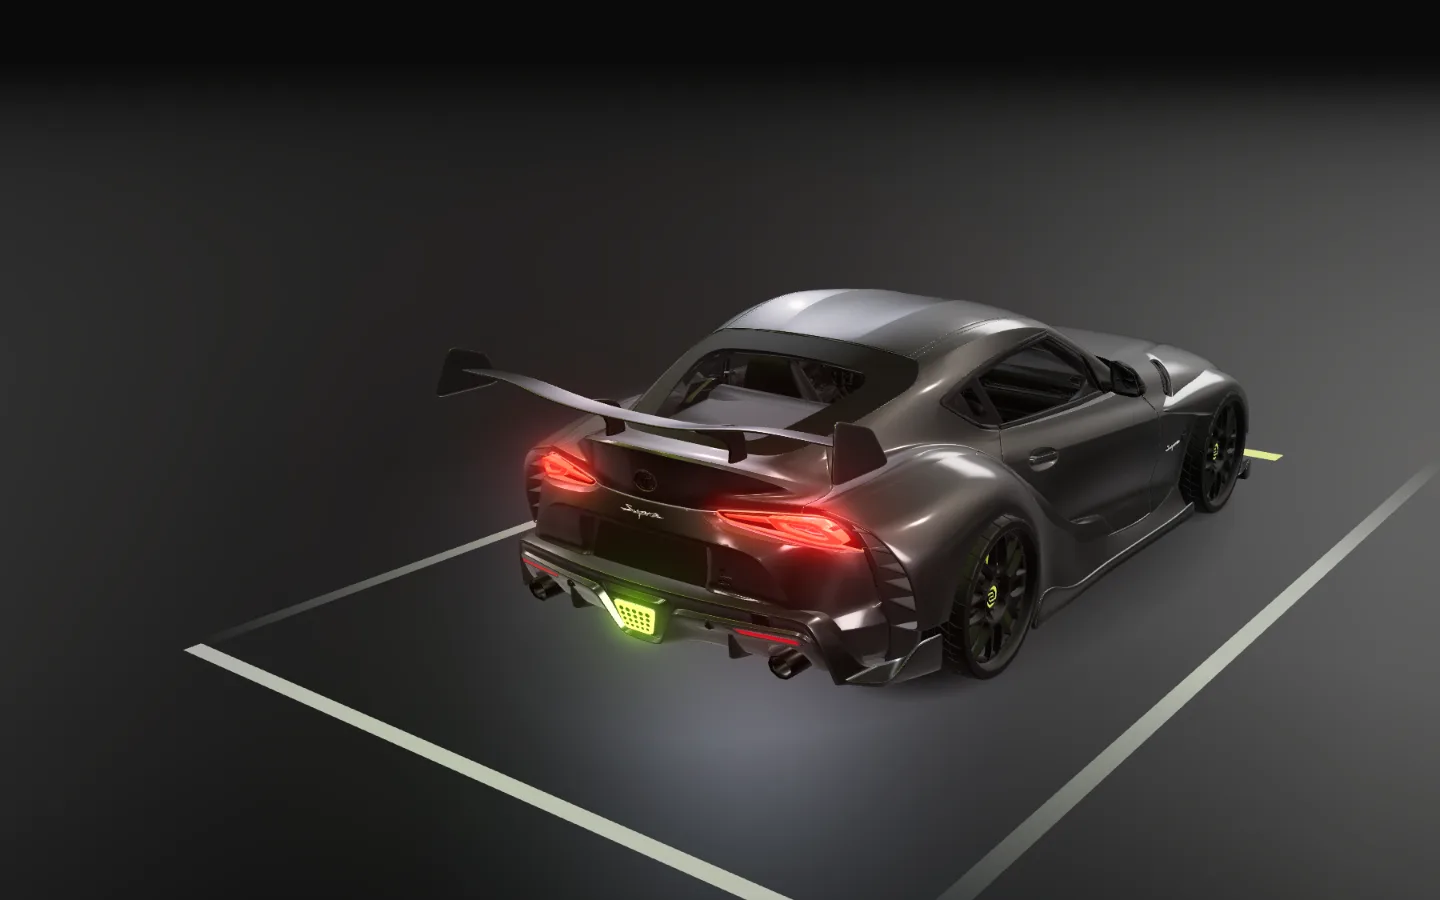
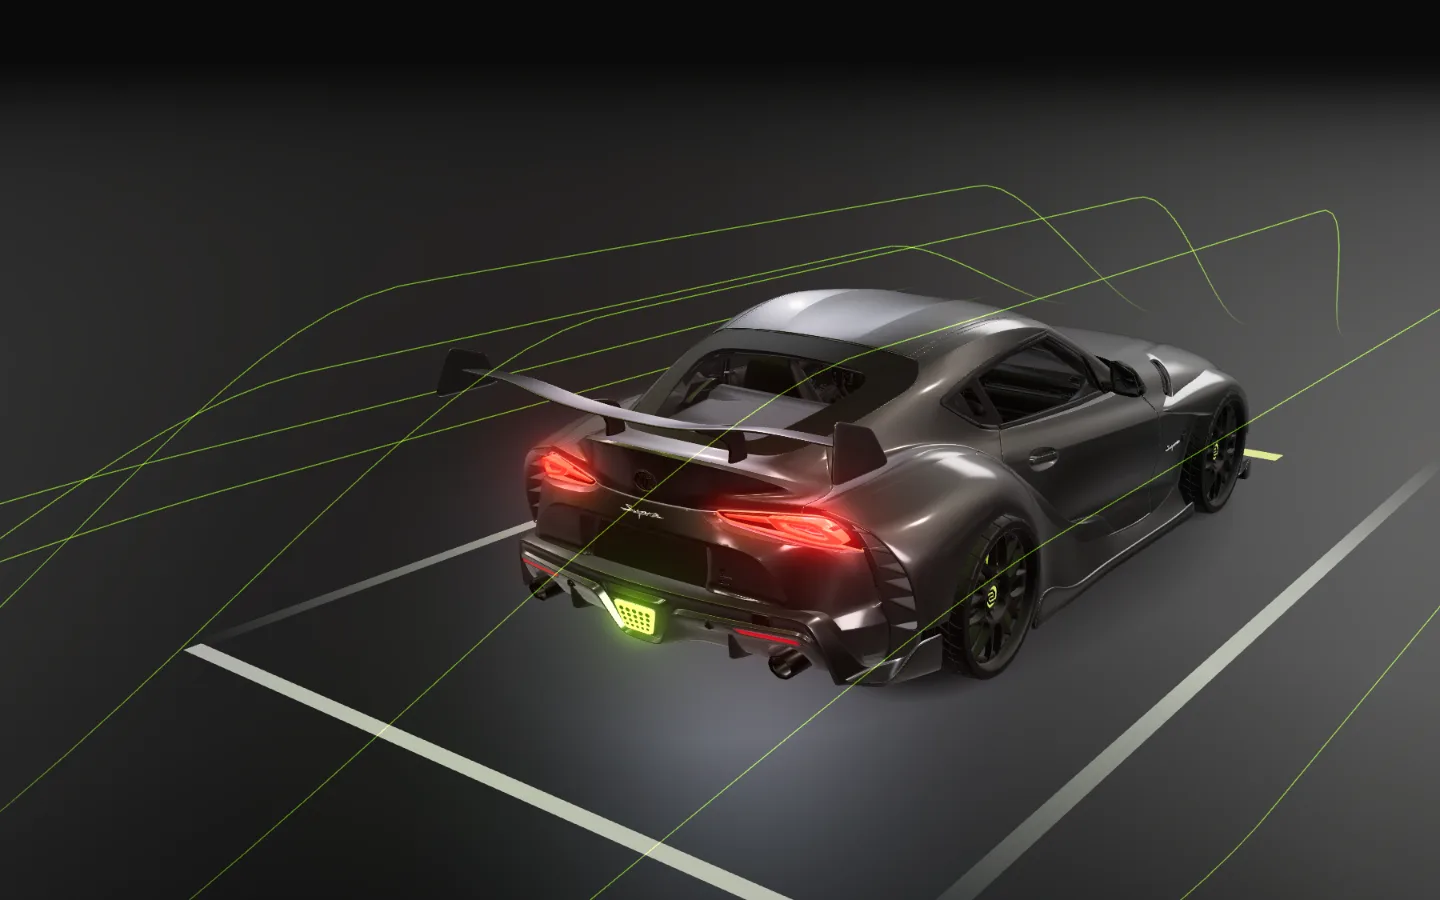
feat: o capitulo aero mostra o ar tambem no celular
A imagem do modo leve mostrava o carro parado justamente no capitulo que fala
de ar. Agora tools/capture.js monta o createAirflow e liga so no shot do aero:
aero.webp vai de 32,6 para 54,3 KB, numa imagem lazy abaixo da dobra, fora da
primeira tela e do LCP. O alt ganhou as linhas.

A ferramenta nao deixava de montar o efeito: ela montava e ele se recusava a
rodar. O laco do fluxo so anda com a aba visivel, e no painel do app o
document.visibilityState e hidden enquanto o rAF continua disparando - entao
esperar quadro resolvia, o laco nunca rodava e saia a imagem de sempre, sem
erro nenhum. Virou airflow.still(): um quadro sob demanda, deterministico.

Na pagina o ar e uma marca correndo pela linha, entao qualquer quadro pega so
tracos. Na imagem fixa a linha acende de ponta a ponta, que e o que faz a forma
se ler parada - e o que a decisao de "linhas, nao pontos" dizia querer, sem que
a pagina jamais tivesse desenhado assim.

Tres variantes comparadas no tamanho real da figura no celular (672x418), nao
em tela cheia; escolha do usuario: linha continua.

diff --git a/tools/capture.js b/tools/capture.js
@@ -5,6 +5,7 @@ import carStage from '../src/data/carStage.js';
 import cameraShots from '../src/data/cameraShots.js';
 import { createStage } from '../src/scene/stage.js';
 import { createCar } from '../src/scene/car.js';
+import { createAirflow } from '../src/scene/airflow.js';
 
 const SHOTS = ['aero', 'chassis', 'engine']; // the chapters with a figure in index.html
 const SIZE = { width: 1440, height: 900 }; // 16:10, the aspect ratio of .chapter__shot
@@ -29,6 +30,16 @@ function sized(element, cssWidth, tries = 60) {
 const view = await createStage(canvas, carStage);
 const car = await createCar(carStage);
 view.add(car.object3D);
+// The aero chapter is about the air, so its still shows it too. On the page the flow follows the
+// camera's place along the scroll; here it is simply turned on for that one shot.
+//
+// On the page the flow is a mark chasing along each line, so any single frame catches only dashes.
+// A still wants the whole streamline, which is what makes the shape readable standing still: with no
+// marks along the line every point shares one phase, and holding that phase at the mark's own peak
+// (0.06 in scene/airflow.js's shader) lights each line end to end. The ends still fade out.
+const LIT_LINE = { marks: 0, speed: 1 };
+const LIT_PHASE = -0.06;
+const airflow = createAirflow(carStage.car, { view }, { ...carStage.airflow, ...LIT_LINE });
 await view.activateBloom(); // the page turns the lamps' glow on at the first move: stills show it
 
 // createStage sizes the renderer from a ResizeObserver, which fires after this tick: capturing
@@ -42,6 +53,10 @@ const context = target.getContext('2d');
 
 for (const id of SHOTS) {
   const shot = cameraShots.find((entry) => entry.id === id);
+  // One drawn frame, not the flow's own loop: that loop stays parked while the document reports
+  // itself hidden, which is how this tool runs inside an app's browser pane.
+  airflow.still(LIT_PHASE, id === 'aero' ? 1 : 0);
+
   // Centred: the offset makes room for the page's text, and the lite figure stands on its own.
   view.setShot({ ...shot, offset: 0 });
   view.render();

diff --git a/src/scene/airflow.js b/src/scene/airflow.js
@@ -202,6 +202,17 @@ export function createAirflow(car, { view }, { mode, ...config }) {
       else stop();
       view.requestRender();
     },
+    /**
+     * One frame, drawn on demand: for the still captures (tools/capture.js), which need a known
+     * instant and run with the document reporting itself hidden, where the loop above refuses to go.
+     * @param {number} seconds where along the flow's own clock to draw
+     * @param {number} amount how much of the flow is on screen, 0 to 1
+     */
+    still(seconds = 0, amount = 1) {
+      drawing.object3D.visible = amount > 0;
+      drawing.step(seconds, amount);
+      view.requestRender();
+    },
     /** Given up for good, when the frame budget cannot afford something that draws forever. */
     park() {
       if (parked) return;

diff --git a/index.html b/index.html
@@ -92,7 +92,7 @@
         <figure class="chapter__shot">
           <img class="chapter__shot-image" data-src="/shots/aero.webp" width="1440" height="900"
             loading="lazy" decoding="async"
-            alt="The Supra seen from behind, its rear wing and diffuser lit against a dark studio floor" />
+            alt="The Supra seen from behind, its rear wing and diffuser lit against a dark studio floor, with lime streamlines tracing the air over its roof and down its flanks" />
         </figure>
         <div class="chapter__body">
           <p class="label chapter__index" data-reveal="fade"><span class="accent">01</span> — Aero</p>

diff --git a/docs/plan.md b/docs/plan.md
@@ -605,6 +605,25 @@ a zona 3D e parado num capítulo.
   - 📏 Custo do efeito, três passadas estáveis na parada do aero: **137 → 108 FPS**, mediana 6,2 ms,
     p95 18,1 ms. É o item mais caro da rodada, e por isso **cai junto com a câmera na mão** quando o
     orçamento aperta (escolha do usuário)
+  - [x] **A imagem do lite passou a mostrar o fluxo (2026-09-20)**, fechando a pendência de que os dois
+    modos contavam o capítulo do ar de formas diferentes. `tools/capture.js` monta o `createAirflow` e
+    liga só no shot do aero; a `aero.webp` foi de 32,6 para 54,3 KB (`loading="lazy"` e abaixo da dobra,
+    então não entra na primeira tela nem no LCP). O `alt` ganhou as linhas, que antes não existiam no
+    texto
+    - 🐛 **A ferramenta não "não montava o efeito": ela montava e ele se recusava a rodar.** O
+      `createAirflow` só anda com a aba visível, e no painel do app o `document.visibilityState` é
+      `hidden` — mas o `rAF` continua disparando ali, então esperar quadro resolvia e o laço nunca
+      rodava. Saía a imagem de sempre, sem erro no console e sem nada na tela. Virou `airflow.still()`:
+      um quadro desenhado sob demanda, determinístico, sem laço e sem regra de visibilidade
+    - 🐛 **A razão registrada para ter escolhido linhas em vez de pontos não era verdade:** "a linha
+      contínua desenha a forma do carro mesmo parada". O shader multiplica tudo pela marca que corre,
+      então qualquer quadro pega só traços. Na captura, sem marcas ao longo da linha todos os pontos
+      compartilham uma fase; segurando essa fase no pico da marca, a linha acende de ponta a ponta —
+      é a primeira vez que a frase vale
+    - 👁 três variantes comparadas no tamanho real de exibição (672×418, já em 2×), não a 1440×900:
+      sem fluxo, marcas correndo (39,2 KB) e linha contínua (54,3 KB). **Escolha do usuário: contínua**
+    - 👁 375 px: figura a 336×209 com as linhas legíveis depois da redução de ~4×, sem rolagem
+      horizontal, console limpo. `chassis.webp` e `engine.webp` saíram byte a byte idênticos
   - Reduced motion não chega aqui, como na câmera na mão: ele manda a página para o modo leve
   - Amarrar o fluxo ao som do motor foi levantado pelo usuário e **descartado por ele** depois de ver o
     efeito só no capítulo: o motor toca uma vez só, na abertura, com a câmera no hero

diff --git a/docs/design.md b/docs/design.md
@@ -668,6 +668,12 @@ Objetivo: subir o patamar de qualidade em ~3 dias, com o site já no ar. Plano e
     e rolando fica igual. O preço não é taxa de quadros: são 27 chamadas de desenho por quadro enquanto
     a zona 3D está na tela, onde antes eram 0 em repouso — GPU e bateria, medidos por canvas porque a
     volta tem palco próprio.
+  - **O celular também vê o ar (2026-09-20):** a imagem do capítulo no modo leve passou a ser capturada
+    com o fluxo, em vez de mostrar o carro parado no capítulo que fala de ar. Na página o ar é marca
+    correndo, então um quadro qualquer pega só traços; na imagem fixa a linha acende inteira, que é
+    o que faz a forma se ler parada — e é o que a decisão de "linhas, não pontos" dizia querer, sem
+    que a página jamais tivesse desenhado assim. Escolha do usuário entre as três, comparadas no
+    tamanho real da figura no celular e não em tela cheia.
   - **Reduced motion não chega aqui:** ele manda a página inteira para o modo leve
     (`lib/capabilities.js`), então o palco 3D nunca roda com ele. A guarda no laço fica como seguro: se
     essa regra mudar, esta é a única coisa da página que ficaria se mexendo para sempre.
